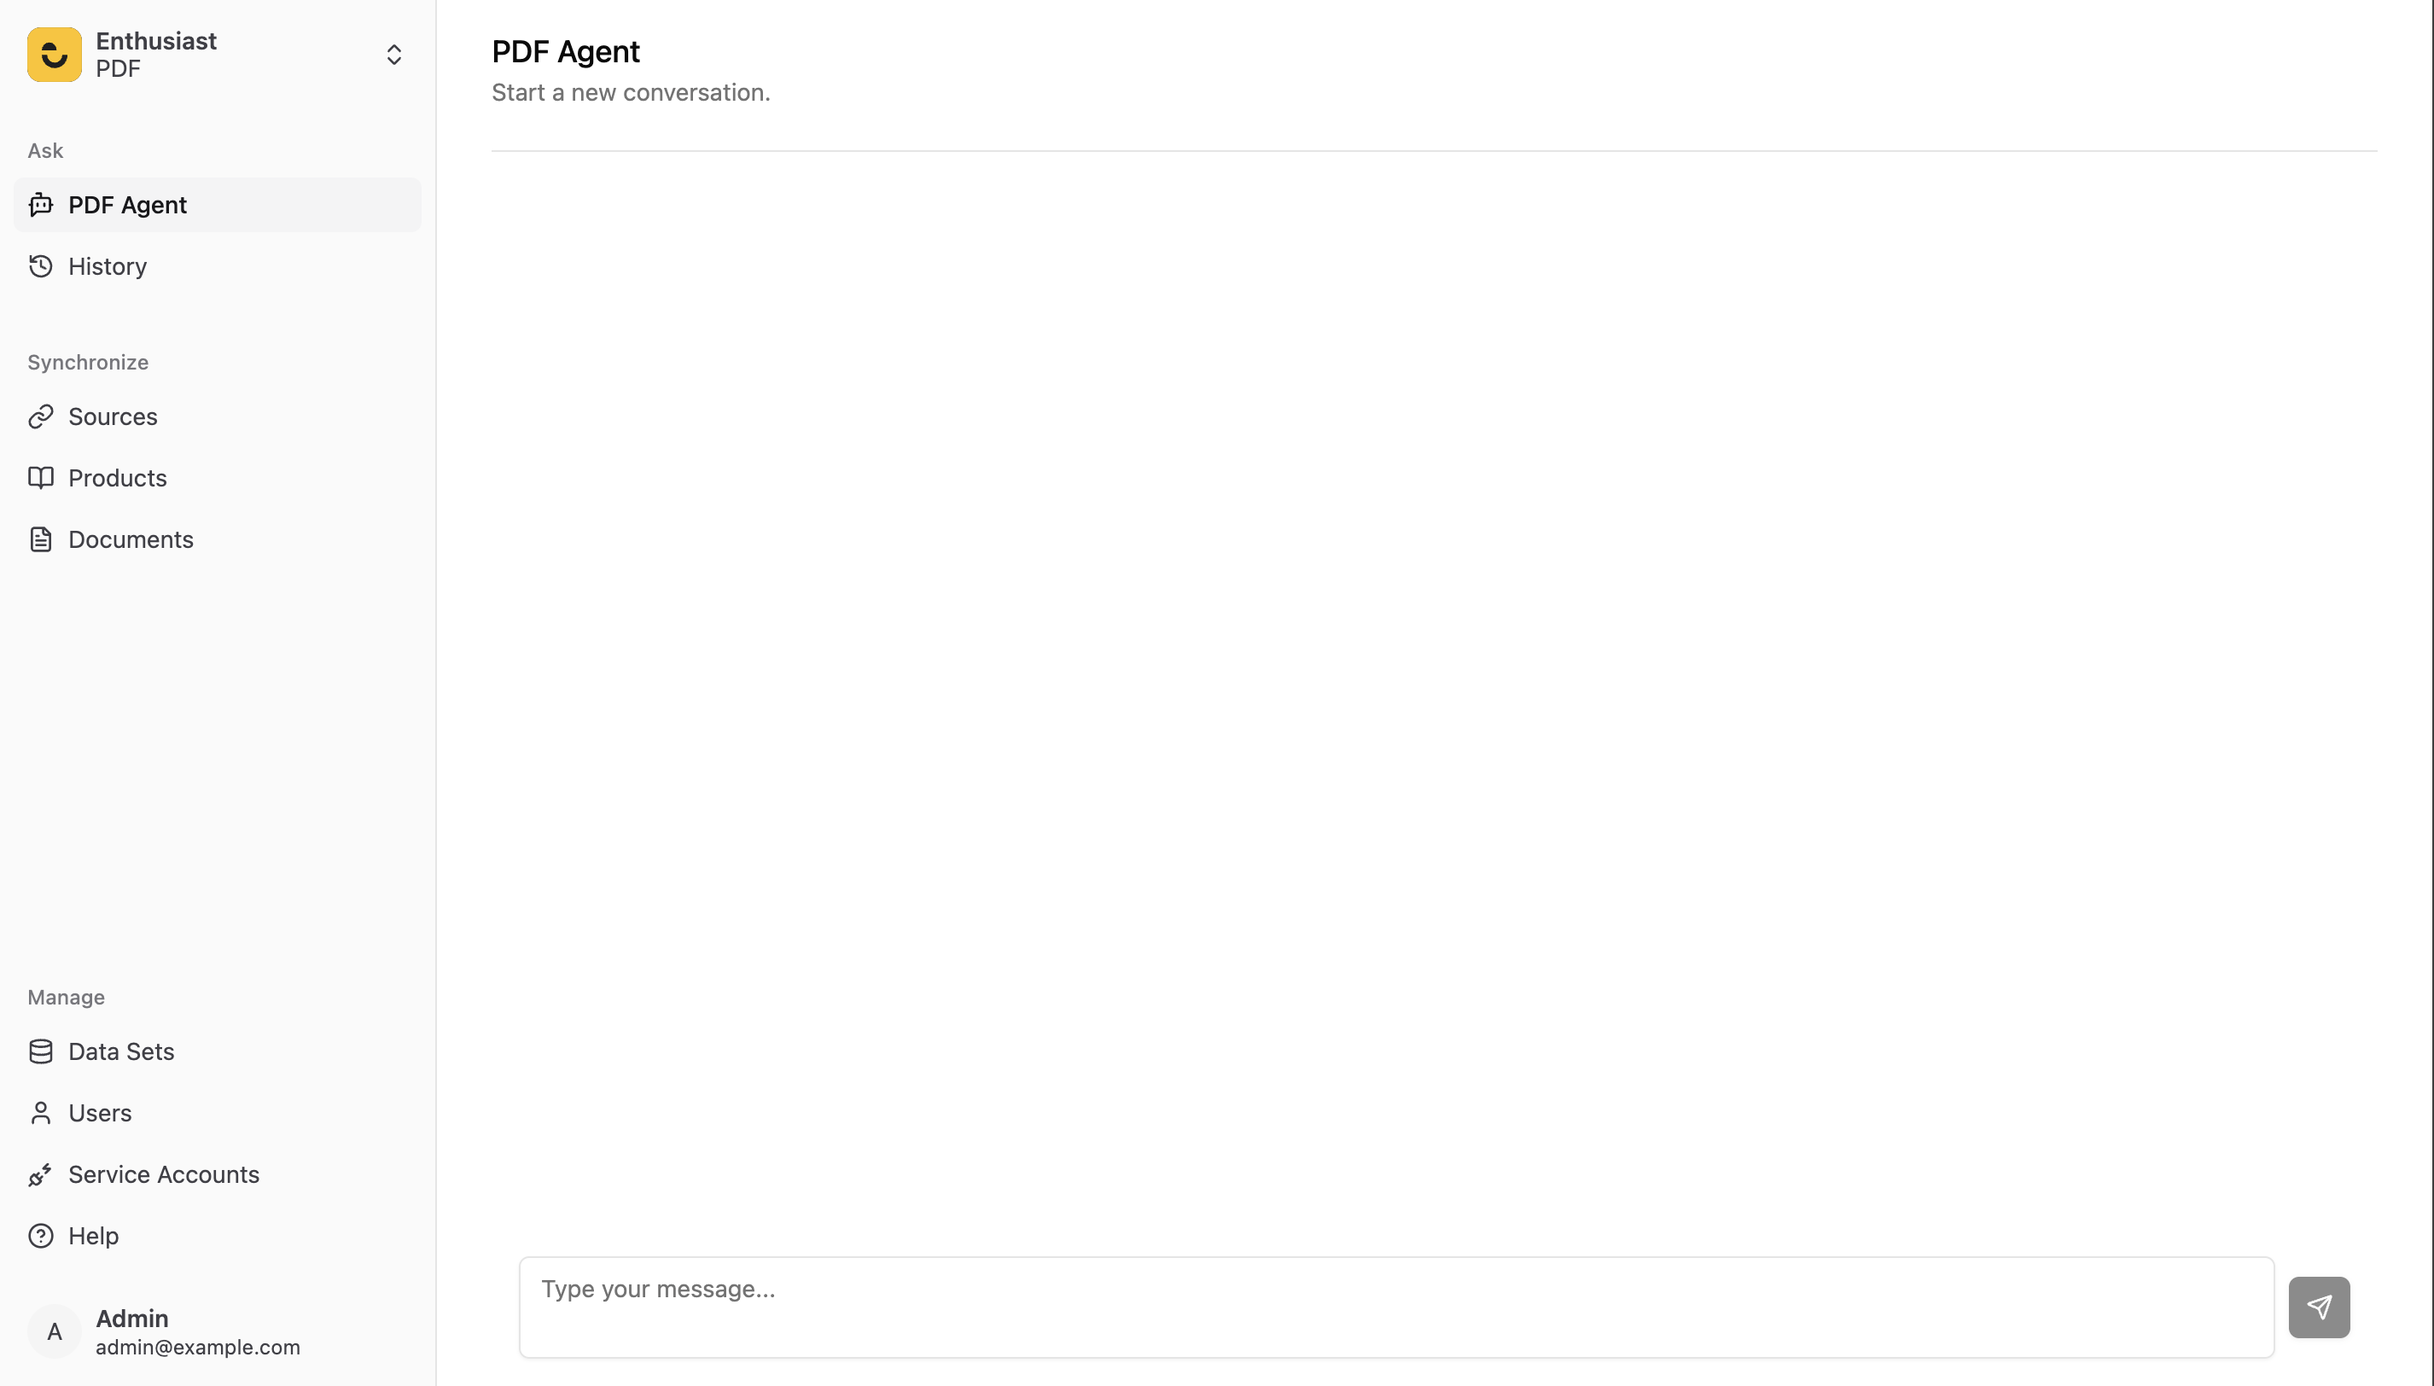
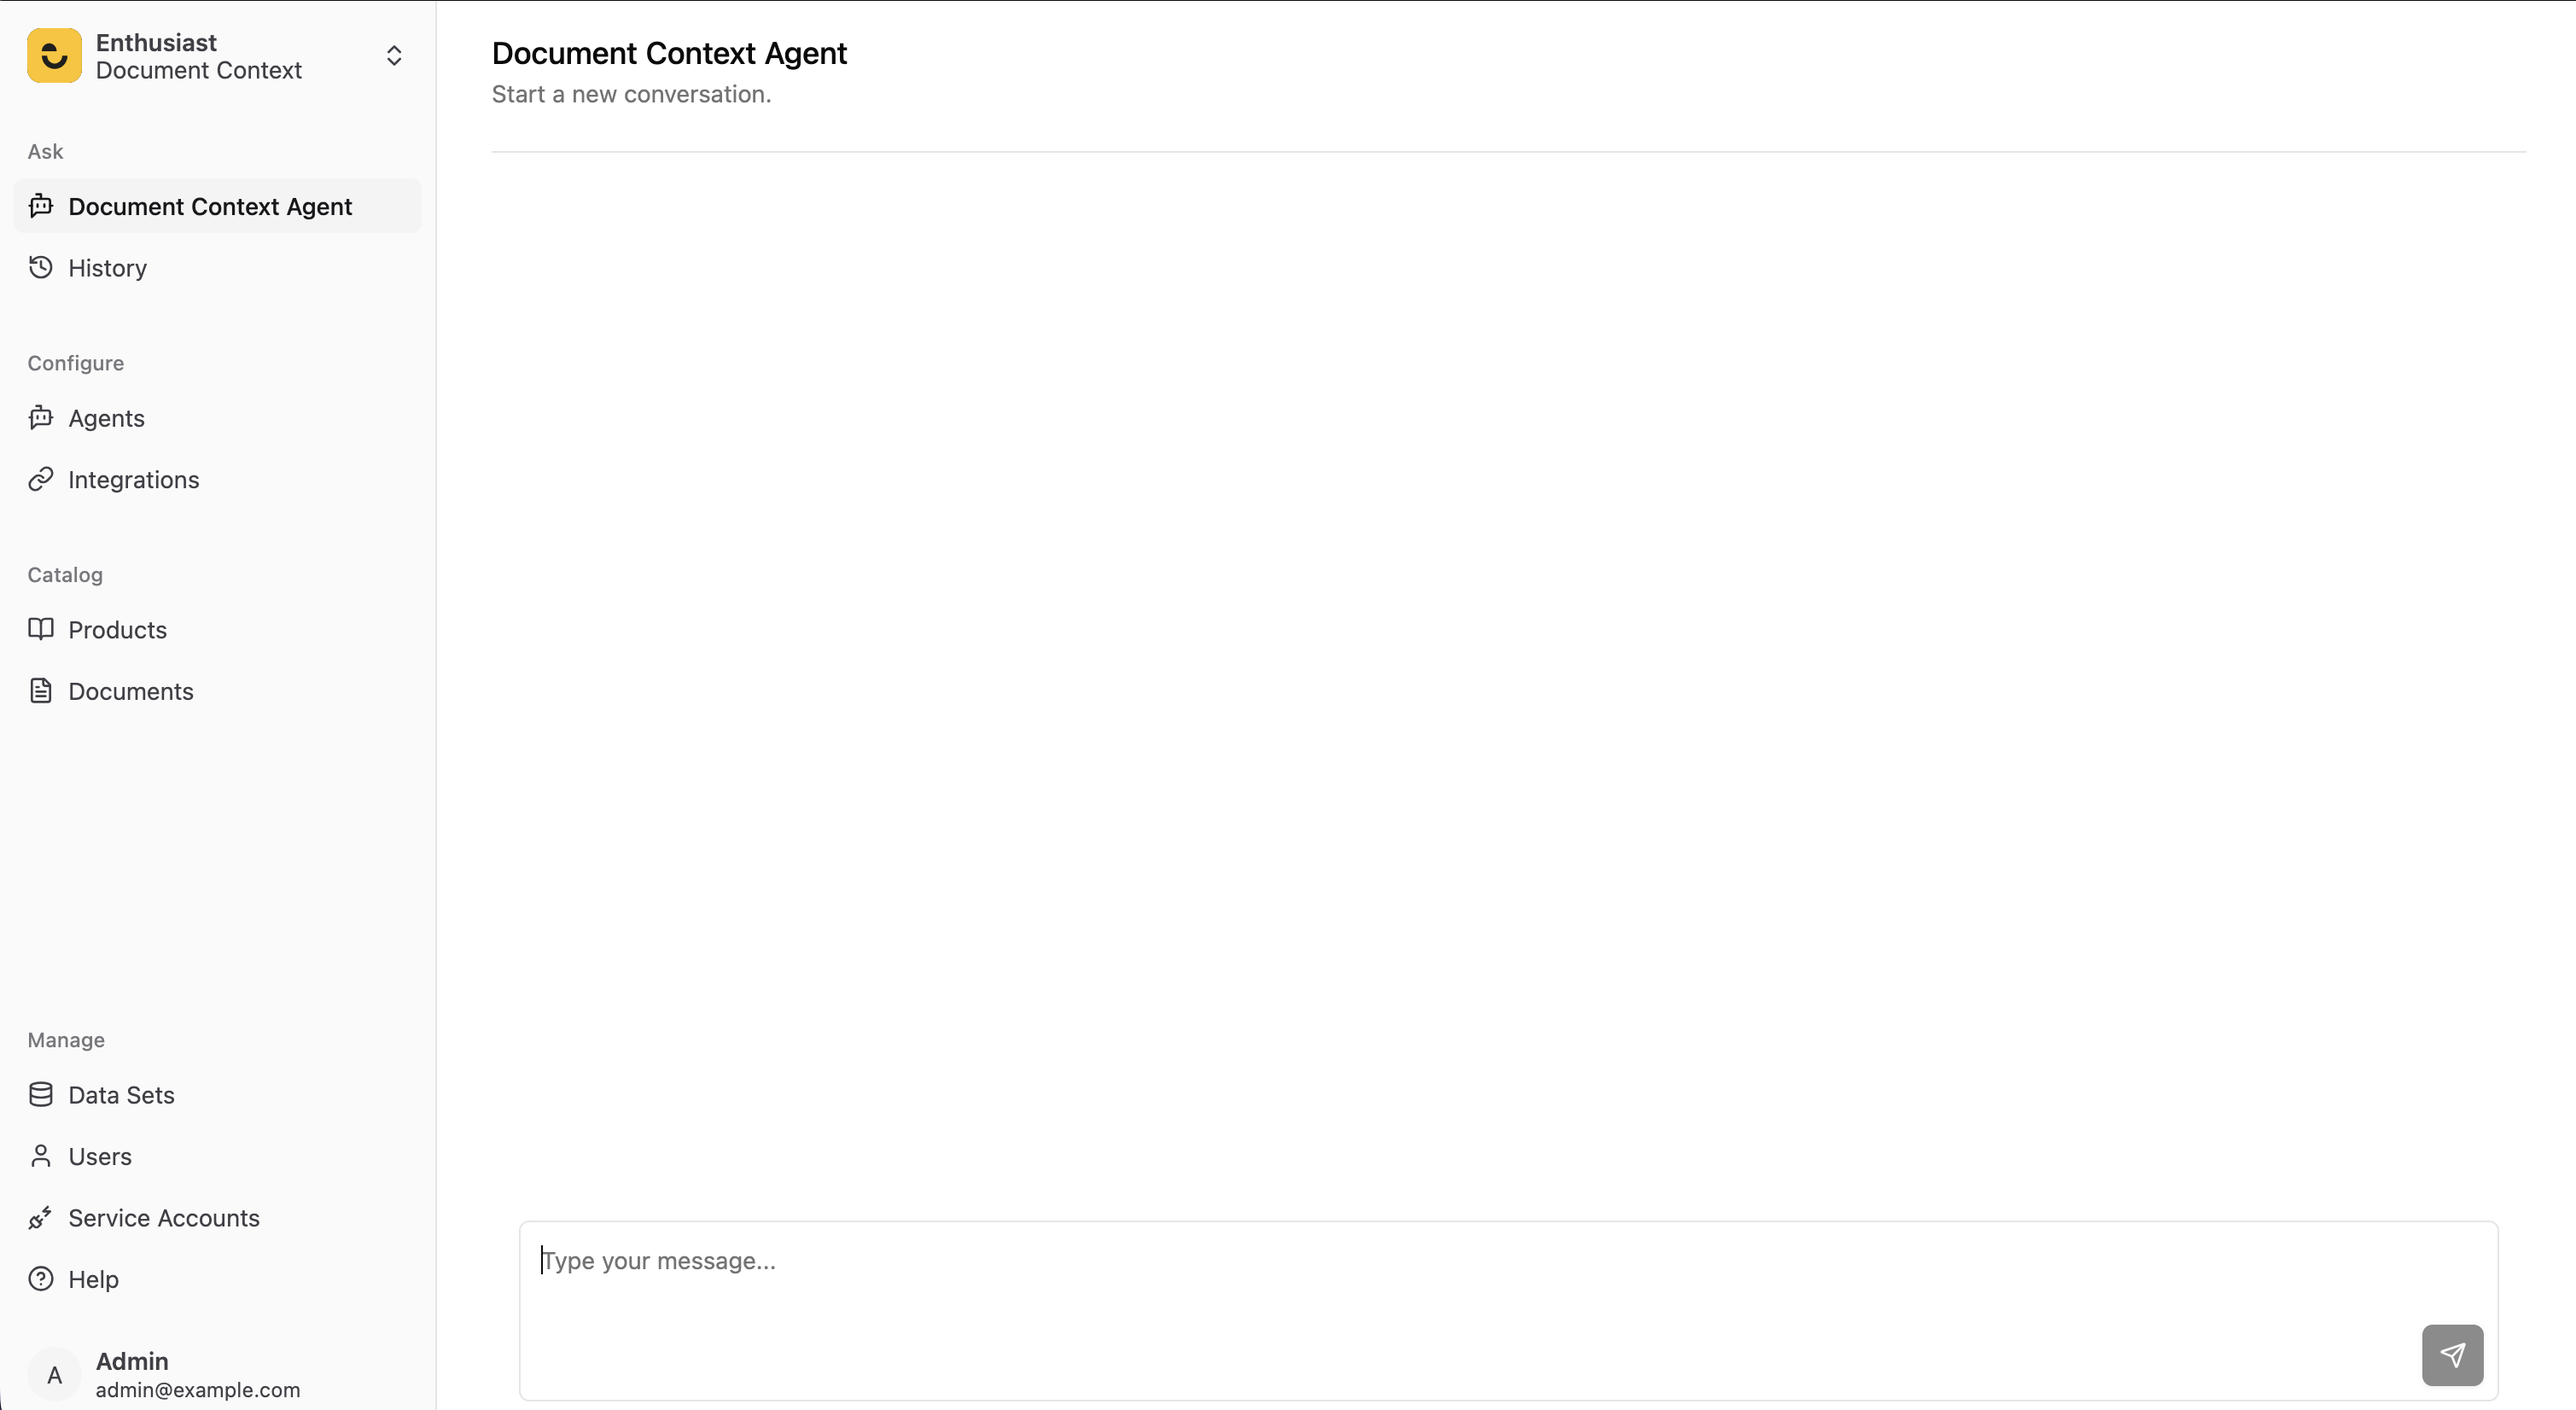
refactor the custom agent doc to more closely reflect current agent creation set-up

diff --git a/docs/content/docs/customization/custom-agent.md b/docs/content/docs/customization/custom-agent.md
@@ -5,59 +5,40 @@ sidebar_position: 4
 # Creating custom Agent
 Custom Agent will allow to customize any part of agent providing its configuration, while enthusiast take care of building it.
 
-## Creating a simple PDF Agent - which will answer question about pdf documents.
+## Creating a simple Document Context Agent - which will answer questions about documents.
 
-1. Create a directory for you agent (e.g. `pdf_agent`). Then inside it create `agent.py` file:
+### Proposed folder structure
+
+```
+document_context_agent/
+├── __init__.py
+├── agent.py
+├── config.py
+├── prompt.py
+└── tools/
+    ├── __init__.py
+    └── document_context_tool.py
+```
+
+1. Create a directory for you agent (e.g. `document_context_agent`). Then inside it create `agent.py` file:
 ```python
-from enthusiast_common.agents import BaseAgent
-from enthusiast_common.injectors import BaseInjector
-from enthusiast_common.tools.base import BaseTool
-from langchain.agents import AgentExecutor, create_tool_calling_agent
-from langchain_core.callbacks import BaseCallbackHandler
-from langchain_core.language_models import BaseLanguageModel
-from langchain_core.prompts import ChatPromptTemplate
+from enthusiast_agent_tool_calling import BaseToolCallingAgent
+from enthusiast_common.config.base import LLMToolConfig
 
+from .tools import ContextSearchTool
 
-class ExamplePDFAgent(BaseAgent):
-    def __init__(
-        self,
-        tools: list[BaseTool],
-        llm: BaseLanguageModel,
-        prompt: ChatPromptTemplate,
-        conversation_id: int,
-        injector: BaseInjector,
-        callback_handler: BaseCallbackHandler | None = None,
-    ):
-        super().__init__(
-            tools=tools,
-            llm=llm,
-            prompt=prompt,
-            conversation_id=conversation_id,
-            callback_handler=callback_handler,
-            injector=injector,
-        )
-        self._agent_executor = self._create_agent_executor()
-
-    def _create_agent_executor(self, **kwargs) -> AgentExecutor:
-        tools = self._create_tools()
-        agent = create_tool_calling_agent(self._llm, tools, self._prompt)
-        return AgentExecutor(
-            agent=agent, tools=tools, verbose=True, memory=self._injector.chat_summary_memory, **kwargs
-        )
-
-    def _create_tools(self):
-        return [tool_class.as_tool() for tool_class in self._tools]
-
-    def get_answer(self, input_text: str) -> str:
-        agent_output = self._agent_executor.invoke(
-            {"input": input_text}, config={"callbacks": [self._callback_handler] if self._callback_handler else []}
-        )
-        return agent_output["output"]
+class ExampleDocumentContextAgent(BaseToolCallingAgent):
+    AGENT_KEY = "enthusiast-agent-example-document-context"
+    NAME = "Example Document Context Agent"
+    
+    TOOLS = [LLMToolConfig(tool_class=ContextSearchTool)]
 ```
 2. Create Prompt in prompt.py file.
 ```python
-PDF_AGENT_SYSTEM_PROMPT="""
-You are a helpful agent, answering questions about pdf document. Always use context tool
+DOCUMENT_CONTEXT_AGENT_SYSTEM_PROMPT="""
+You are a helpful agent, answering questions about documents and resources mentioned in them.
+
+Whenever the user asks a question — whether about a document itself or about a resource, topic, or entity mentioned in a document — always use the document context tool first to extract relevant context. Do not ask the user for details that the tool can retrieve; use it proactively to gather the necessary information before answering.
 """
 ```
 
@@ -75,7 +56,7 @@ class ContextSearchToolInput(BaseModel):
 
 class ContextSearchTool(BaseLLMTool):
     NAME = "context_search_tool"
-    DESCRIPTION = "Use it to get context from pdf required for answering questions"
+    DESCRIPTION = "Use it to get context from documents required for answering questions"
     ARGS_SCHEMA = ContextSearchToolInput
     RETURN_DIRECT = False
 
@@ -98,48 +79,49 @@ class ContextSearchTool(BaseLLMTool):
         return content
 ```
 
-4. Create configuration inside `config.py` file:
+4. Create `tools/__init__.py` to expose the tool:
 ```python
-from enthusiast_common.config import AgentConfigWithDefaults, LLMToolConfig
-from langchain_core.prompts import ChatPromptTemplate
+from .document_context_tool import ContextSearchTool
 
-from .tools.pdf_context_tool import ContextSearchTool
-from .agent import ExamplePDFAgent
-from .prompt import PDF_AGENT_SYSTEM_PROMPT
+__all__ = ["ContextSearchTool"]
+```
+
+5. Create configuration inside `config.py` file:
+```python
+from enthusiast_common.config import AgentConfigWithDefaults
+from enthusiast_common.config.prompts import ChatPromptTemplateConfig, Message, MessageRole
+
+from .agent import ExampleDocumentContextAgent
+from .prompt import DOCUMENT_CONTEXT_AGENT_SYSTEM_PROMPT
 
 
-def get_config(conversation_id: int, streaming: bool) -> AgentConfigWithDefaults:
+def get_config() -> AgentConfigWithDefaults:
     return AgentConfigWithDefaults(
-        conversation_id=conversation_id,
-        prompt_template=ChatPromptTemplate.from_messages(
-            [
-                (
-                    "system",
-                    PDF_AGENT_SYSTEM_PROMPT,
+        prompt_template=ChatPromptTemplateConfig(
+            messages=[
+                Message(
+                    role=MessageRole.SYSTEM,
+                    content=DOCUMENT_CONTEXT_AGENT_SYSTEM_PROMPT,
                 ),
-                ("placeholder", "{chat_history}"),
-                ("human", "{input}"),
-                ("placeholder", "{agent_scratchpad}"),
+                Message(role=MessageRole.PLACEHOLDER, content="{chat_history}"),
+                Message(role=MessageRole.USER, content="{input}"),
+                Message(role=MessageRole.PLACEHOLDER, content="{agent_scratchpad}"),
             ]
         ),
-        agent_class=ExamplePDFAgent,
-        llm_tools=[
-            LLMToolConfig(
-                tool_class=ContextSearchTool,
-            )
-        ],
+        agent_class=ExampleDocumentContextAgent,
+        tools=ExampleDocumentContextAgent.TOOLS,
     )
 ```
-5. Ensure your agent is available for import from directly your agent directory:
+6. Ensure your agent is available for import from directly your agent directory:
 ```python
-# pdf_agent/__init__.py
-from .agent import ExamplePDFAgent
+# document_context_agent/__init__.py
+from .agent import ExampleDocumentContextAgent
 
-__all__ = ['ExamplePDFAgent']
+__all__ = ["ExampleDocumentContextAgent"]
 ```
-6. Finally add your agent to `settings_override.py`:
+7. Finally add your agent to `settings_override.py`:
 ```python
-AVAILABLE_AGENTS = ['pdf_agent.ExamplePDFAgent']
+AVAILABLE_AGENTS = ['document_context_agent.ExampleDocumentContextAgent']
 ```
 Now Agent is available in UI to chat with it.
 
